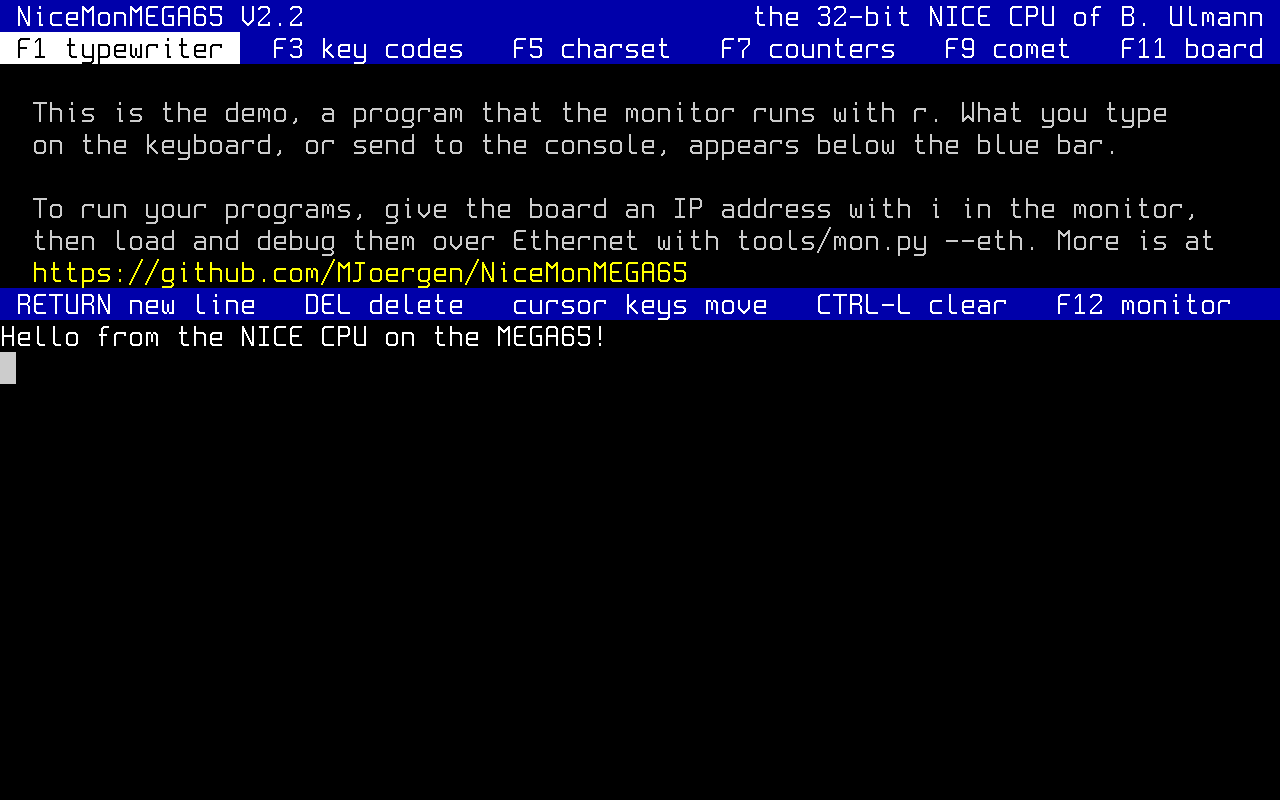
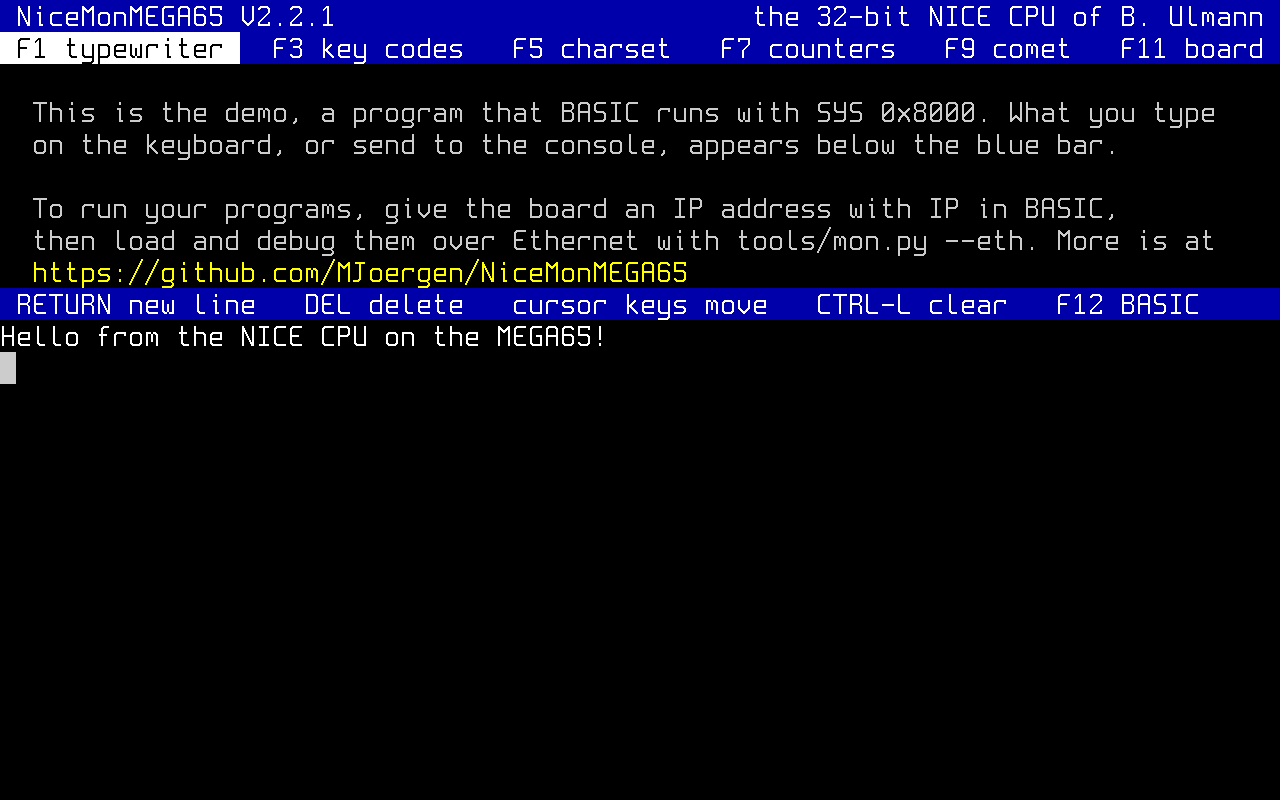
Date the V2.2.1 notes and draw the pictures again
The README's three pictures show V2.2.1 in the demo's title bar. BASIC
is now the ROM's command loop, so the recipe in screenshot.py's
docstring starts the demo with SYS 0x8000, as r is no statement and
left niceemu waiting. The debugger's picture is drawn at step 19320:
the cursor reaches the next row at 19318, and the program halts at
19325.

The examples of a release's name in README.md, CONTRIBUTING.md, and
monitor/README.md say V2.2.1. monitor/INTERNALS.md keeps V2.2, as its
example has as many words as the tests' V9.9, and V2.2.1 has more.

Changed region(s): [[0.4375, 0.125, 0.9375, 0.1562], [0.75, 0.25, 0.9375, 0.2812], [0.875, 0.375, 0.9688, 0.4062]]

diff --git a/tools/screenshot.py b/tools/screenshot.py
@@ -23,24 +23,24 @@ as the display draws them. niceemu runs the
 program twice, the second time to read the words at the PC.
 
 The pictures of doc/images/ are made from the monitor of the release
-and the demo at 0x8000 after it, both with its tag, and r and CR first,
-which start the demo:
+and the demo at 0x8000 after it, both with its tag, and SYS 0x8000 and
+CR first, which start the demo:
 
-    make -C monitor VERSION=V2.2 && make -C demo VERSION=V2.2
+    make -C monitor VERSION=V2.2.1 && make -C demo VERSION=V2.2.1
     cat monitor/build/monitor.bin demo/build/demo.bin > rom.bin
-    printf 'r\\rHello from the NICE CPU on the MEGA65!\\r' > in.txt
+    printf 'SYS 0x8000\\rHello from the NICE CPU on the MEGA65!\\r' > in.txt
     tools/screenshot.py -i in.txt -o doc/images/demo.png rom.bin
 
 doc/images/ethernet.png, the demo's F11, with:
 
-    printf 'r\\r\\033[23~i192.168.1.65\\rm02:4E:49:43:45:00\\r' > in.txt
+    printf 'SYS 0x8000\\r\\033[23~i192.168.1.65\\rm02:4E:49:43:45:00\\r' > in.txt
     tools/screenshot.py -i in.txt -n 3000000 -o doc/images/ethernet.png \\
         rom.bin
 
 and doc/images/debugger.png, the typewriter paused under the strip once
 the line of the first in.txt is typed, with:
 
-    tools/screenshot.py -i in.txt -n 20572 --debugger \\
+    tools/screenshot.py -i in.txt -n 19320 --debugger \\
         -o doc/images/debugger.png rom.bin
 
 Usage:

diff --git a/monitor/README.md b/monitor/README.md
@@ -280,7 +280,7 @@ fails, TAB does nothing.
 | `DUMP [A] [, N]` | Shows `N` words from `A`, 4 to a row with the row's address first, all in hex. Without `A`, the words after the last shown; without `N`, 32 words. |
 | `DIS [A] [, N]` | Disassembles `N` instructions from `A`, a row each: the address, the instruction's 1 to 4 words, and its text, all in hex (The disassembler below). Without `A`, the instructions after the last shown; without `N`, 20. |
 | `CLS` | Clears the screen. |
-| `VER` | The version of the ROM, and of the dispatch table: `NiceMon V2.2, dispatch table 1.5`. |
+| `VER` | The version of the ROM, and of the dispatch table: `NiceMon V2.2.1, dispatch table 1.5`. |
 | `IP ["A.B.C.D"]` | Shows the Ethernet station's IP address, `IP address 192.168.1.65`, or writes it first: four decimal numbers of 0 to 255 with dots between them, such as `IP "192.168.1.65"`. Anything else is no address, and `IP` says so and writes nothing. It writes `0xFFFFFFB0`, `NET_IP` ([SYSTEM.md](../doc/SYSTEM.md#the-ethernet-station)), so a host connected over TCP loses its connection. In `niceemu` it is a register that keeps what is written. |
 | `DHCP` | Gets the IP address from the network's DHCP server and writes it, as `IP` does, then shows it, with the mask, the gateway, the DNS server, the DHCP server, and the NTP server, if it gives one, a line each (The network below). Without an answer, it prints `No answer from a DHCP server` after about 8 seconds, and leaves the address as it was. |
 | `MAC ["MAC"]` | Shows the station's MAC address, `MAC address 02:4E:49:43:45:06`, or writes it first: six bytes of one or two hex digits, in either case, with colons between them, such as `MAC "02:4E:49:43:45:01"`. The first byte must be even, as an odd one makes a group address. Anything else is no address, and `MAC` says so and writes nothing. It writes `0xFFFFFFB1` and `B2`, so a host connected over TCP loses its connection. Each kind of board has its own after reset: `02:4E:49:43:45:03` on the R3, `02:4E:49:43:45:06` on the R6, and `02:4E:49:43:45:0A` on the Nexys4DDR. Two boards of the same kind on one network need different MAC addresses. In `niceemu` they are registers too, `02:4E:49:43:45:00` after reset. |
@@ -443,7 +443,7 @@ sets serves both.
   list of stations shows it: the host name is `nicemon-` and the last
   three bytes of the MAC address, such as `nicemon-434506`, and the
   vendor class is `NiceMonMEGA65` and the monitor's version, such as
-  `NiceMonMEGA65 V2.2`. The transaction's number is the microsecond counter
+  `NiceMonMEGA65 V2.2.1`. The transaction's number is the microsecond counter
   at the start, XOR the low word of the MAC address. The lease is
   kept, and renewed while BASIC waits for a line, and by a
   program's polls while the network is on, as `net_poll` has it. A

diff --git a/CONTRIBUTING.md b/CONTRIBUTING.md
@@ -827,7 +827,7 @@ bitstream that reads the flash, into the FPGA. The R3 and R3A have an
 S25FL256S, and the R4, R5, and R6 an S25FL512S. It stops unless the chip
 is that of the bitstream's board. The bitstream names its board by its
 UserID, which `r3.xdc` and `r6.xdc` set, or else by its path (`synth/r3/`,
-`nicemon-V2.2-r3.bit`). A bitstream that names neither is programmed
+`nicemon-V2.2.1-r3.bit`). A bitstream that names neither is programmed
 with a note. `ARGS=--no-board-check` skips the check, for a board whose
 flash is not the usual one. When the check fails, the FPGA keeps the
 bridge, and the screen stays blank until the board is programmed.

diff --git a/README.md b/README.md
@@ -55,7 +55,7 @@ There are three ways to use the system:
 1. Download the core file for your board from the latest
    [release](https://github.com/MJoergen/NiceMonMEGA65/releases):
    `nicemon-TAG-r6.cor` for the R6, or `nicemon-TAG-r3.cor` for the R3
-   and R3A, where TAG is the release, such as `V2.2`. A core file holds
+   and R3A, where TAG is the release, such as `V2.2.1`. A core file holds
    its board revision, so use the one for yours.
 2. Copy it to the SD card, and hold No Scroll while you switch the MEGA65
    on. MEGAFLASH, the MEGA65's core menu, appears. Let it write the core

diff --git a/doc/RELEASE_NOTES.md b/doc/RELEASE_NOTES.md
@@ -21,7 +21,7 @@ The release candidates pinned these:
 
 nice_cpu's `RC01` and `RC03` have no tag here.
 
-## V2.2.1 (unreleased)
+## V2.2.1 (2026-11-17)
 
 **Upgrade notes.**
 
